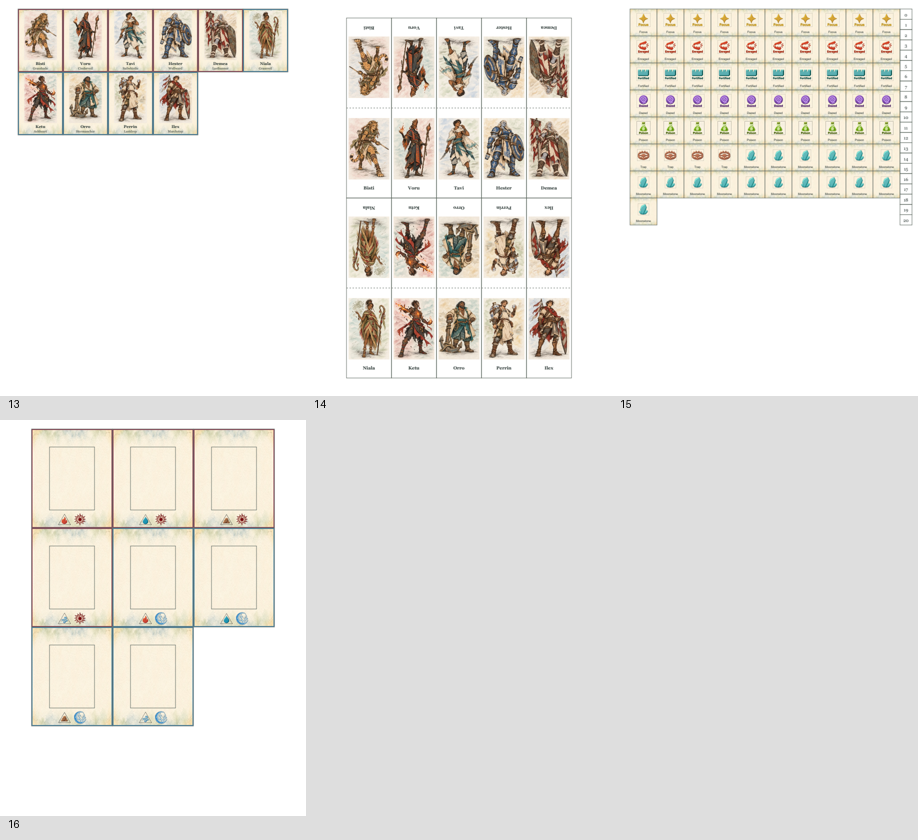
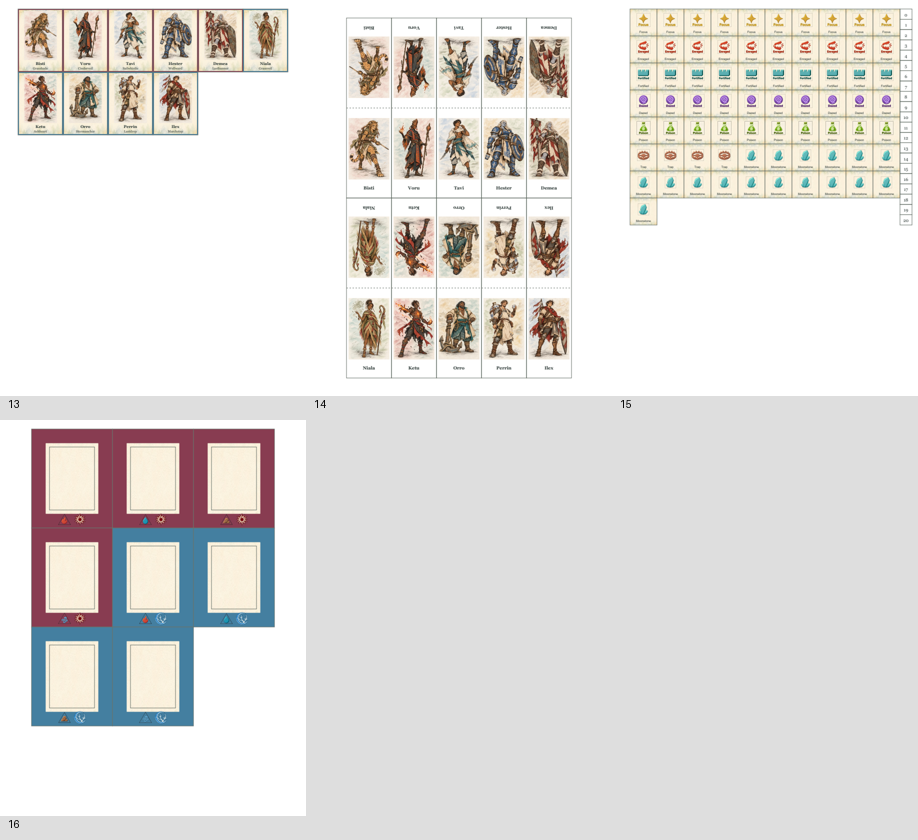
Apply full centimetre faction borders to holders

Changed region(s): [[0.0305, 0.4952, 0.305, 0.8667]]

diff --git a/print-and-play/build_current.py b/print-and-play/build_current.py
@@ -311,7 +311,7 @@ def holders():
 
         paper(c,0,0,w,h)
 
-        c.setStrokeColor(HexColor('#883c51' if a['side']=='Concord' else '#447fa0'));c.setLineWidth(2);c.rect(1,1,w-2,h-2)
+        c.setStrokeColor(HexColor('#883c51' if a['side']=='Concord' else '#447fa0'));c.setLineWidth(72/2.54);c.rect(36/2.54,36/2.54,w-72/2.54,h-72/2.54)
 
         border(c,36,36,90,126)
 
